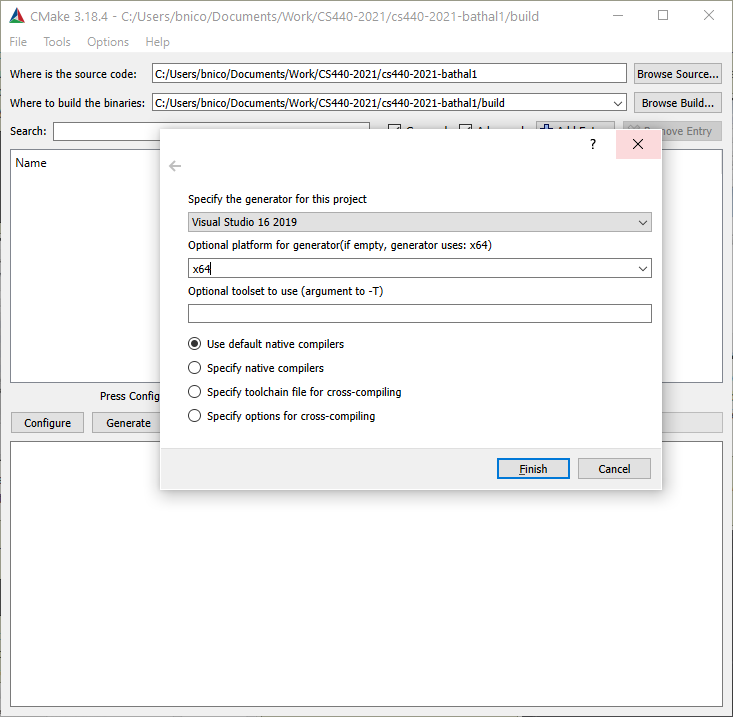
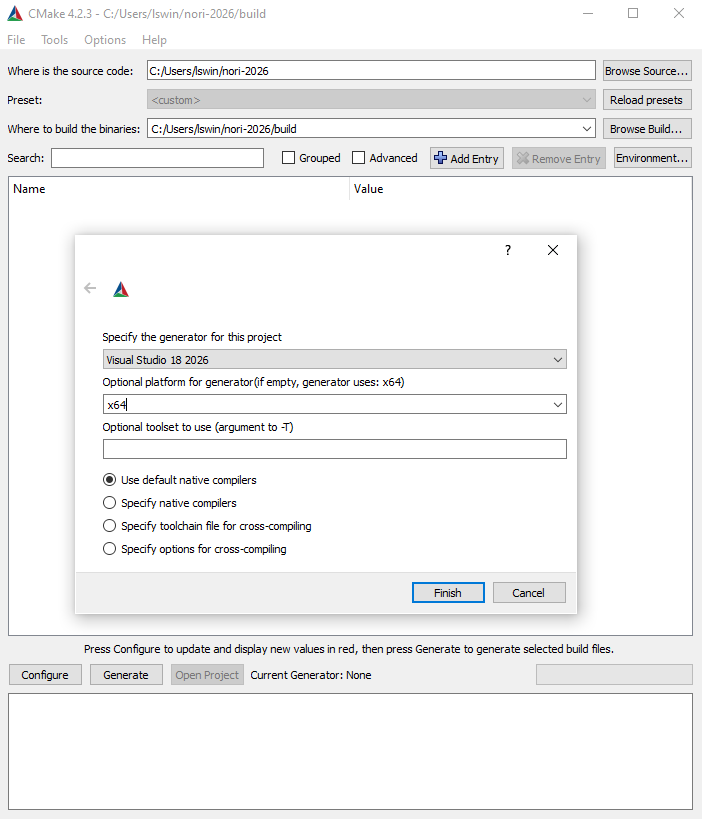
tutorial: update windows tutorial to visual studio 2026

diff --git a/pa1.html b/pa1.html
@@ -145,17 +145,17 @@ $ make -j </pre>
 $ apt-get install zlib1g-dev xorg-dev libglu1-mesa-dev </pre>
 	</div>
 	<div class="col-md-6">
-		<h3>Windows / Visual Studio 2019</h3>
+		<h3>Windows / Visual Studio 2026</h3>
 		<p>
-		Begin by installing Visual Studio 2019 and a
-		reasonably recent (≥ 3.x) version of <a href="http://www.cmake.org/download/">CMake</a>. Start CMake and navigate to the location where
+		Begin by installing Visual Studio 2026 and a
+		reasonably recent (≥ 4.2) version of <a href="http://www.cmake.org/download/">CMake</a>. Start CMake and navigate to the location where
 		you cloned the Nori repository.
 		</p>
 		<div class="row-centered">
 			<div class="thumbnail col-md-7 col-centered">
 				<a class="fancybox" href="images/cmake-windows.png"><img src="images/cmake-windows.png"/></a>
 				<div class="caption">
-					Be sure to select the Visual Studio 2019 <b>64</b> bit compiler.
+					Be sure to select the Visual Studio 2026 <b>64</b> bit compiler.
 					It is also generally a good idea to choose a build directory
 					that is <em>different</em> from the source directory.
 				</div>
@@ -164,14 +164,14 @@ $ apt-get install zlib1g-dev xorg-dev libglu1-mesa-dev </pre>
 		<p>
 		After setting up the project, click the <em>Configure</em> and
 		<em>Generate</em> button. This will create a file called
-		<tt>nori.sln</tt>—double-click it to open Visual Studio.
+		<tt>nori.slnx</tt>—double-click it to open Visual Studio.
 		</p>
 
 		<div class="row-centered">
 			<div class="thumbnail col-md-7 col-centered">
-				<a class="fancybox" href="images/vs2013.png"><img src="images/vs2013.png"/></a>
+				<a class="fancybox" href="images/vs2026.png"><img src="images/vs2026.png"/></a>
 				<div class="caption">
-					The opened Visual Studio 2019 project. It's a good idea to
+					The opened Visual Studio 2026 project. It's a good idea to
 					set the build mode to <em>Release</em> (see the red marker)
 					unless you are tracking down a particular bug. The debug
 					version runs <em>much slower</em> (by a factor of 50 or
